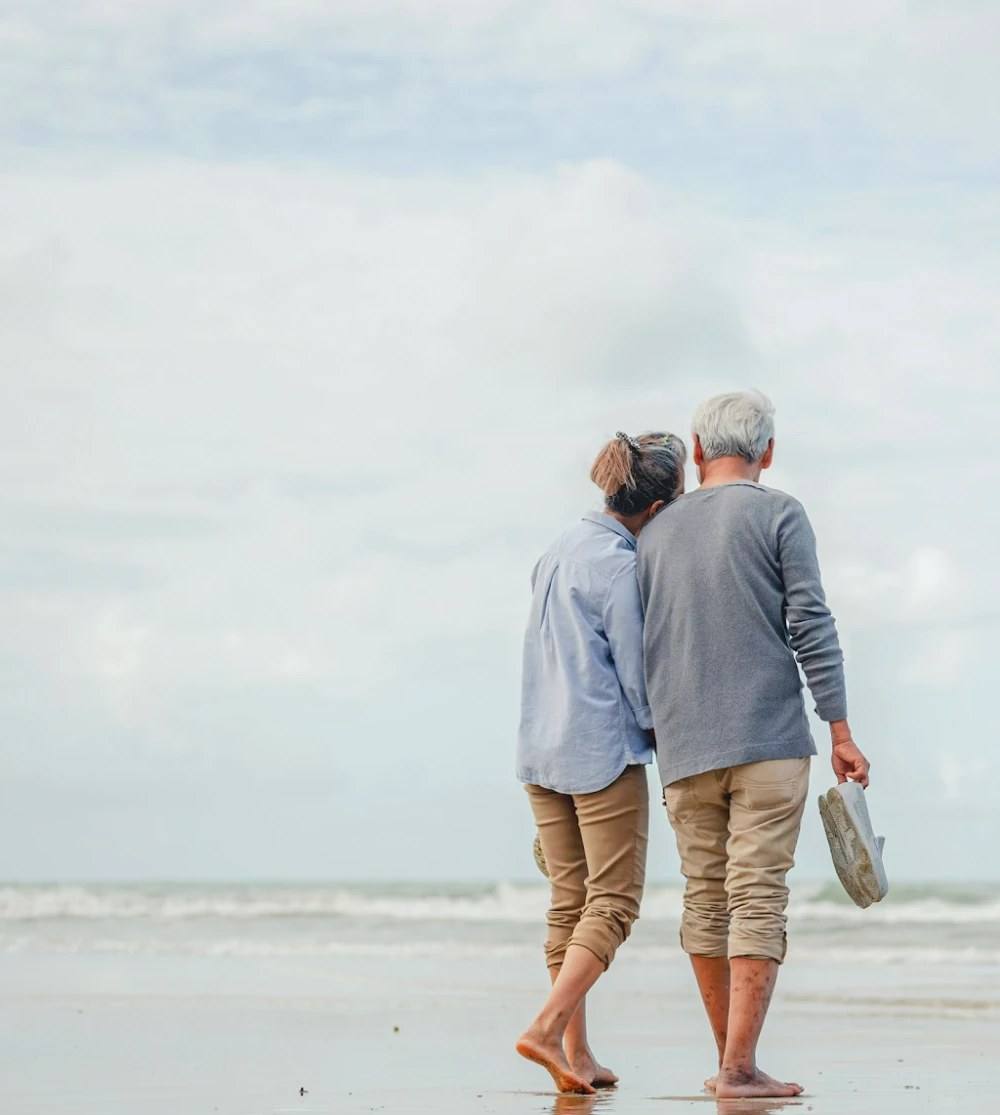
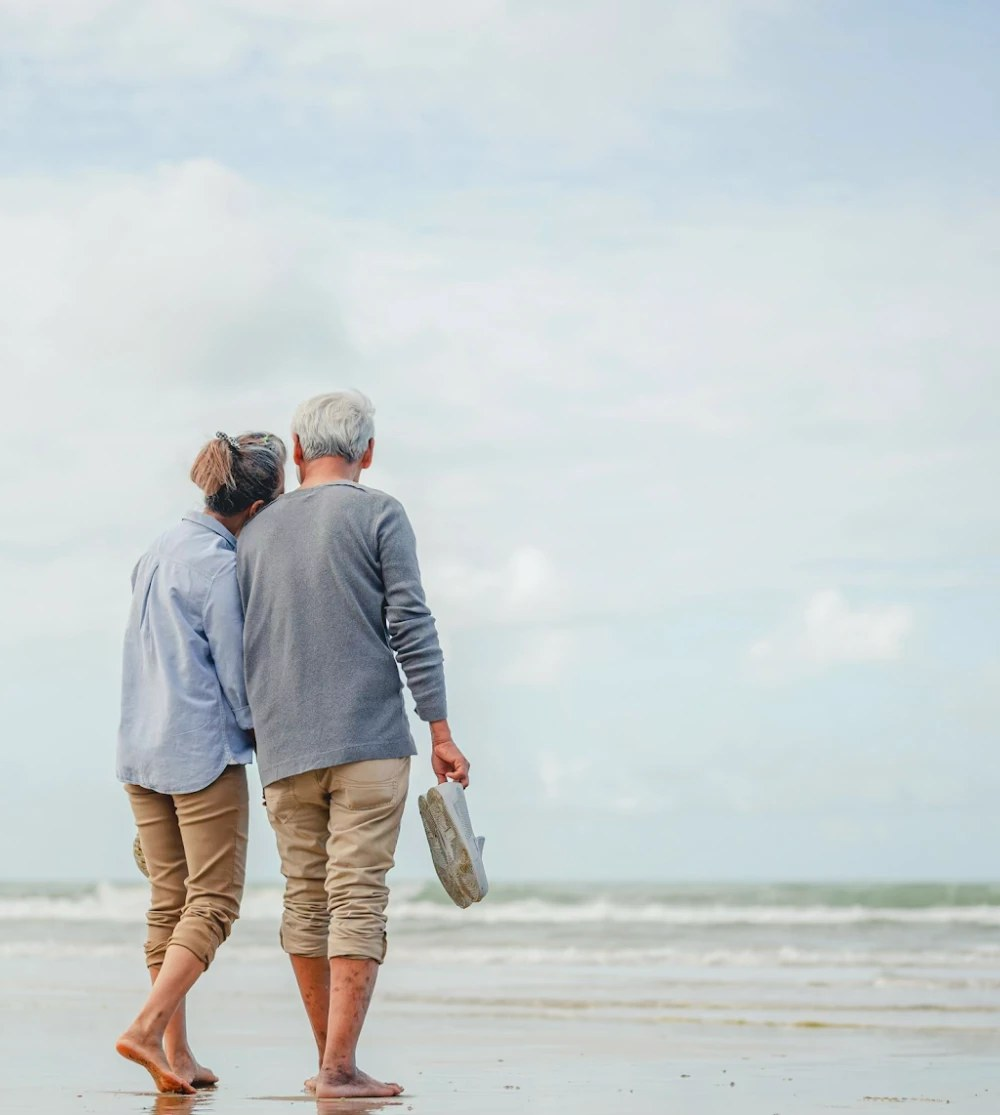
Mirror the Vida photograph to match the other lines
The couple was walking out of the layout rather than into it, which read
against the composition every other line follows — Salud and Casa are both
mirrored so their subjects face inward, toward the headline.

Mirroring alone would have moved them from 70% to 30% and dropped them behind
the duotone wash, since the CSS flip maps position p to 1-p. So the crop moved
with it: the frame is now taken from x 440 rather than 40, putting the couple
at 30% in the file so the flip lands them back at 70% — the same clean half of
the media column every other line puts its subject in.

Verified desktop and mobile: all three mirrored lines report
matrix(-1, 0, 0, 1, 0, 0), Auto stays unflipped as the design has it, and
nothing else moved.

Claude-Session: https://claude.ai/code/session_01NeMfdy7MrZpwiUy7DyVMVE

diff --git a/scripts/site.js b/scripts/site.js
@@ -24,10 +24,12 @@
       bg: 'var(--azul-marino)', fg: '#ffffff', dim: 'rgba(255,255,255,0.8)',
       eyebrow: 'var(--coral)', cta: 'var(--coral)', ctaFg: '#ffffff',
       // Different photograph from the one the design assumed (elderly couple on a
-      // beach, per the client), reframed so the subjects clear the wash panel —
-      // so the design's 'center 26%' no longer applies.
+      // beach, per the client), so 'center 26%' no longer applies. Mirrored like
+      // Salud and Casa so the couple faces into the layout rather than out of it;
+      // the file is cropped with them at 30% so the flip lands them at 70% — clear
+      // of the wash panel, matching where the subject sits on every other line.
       photo: 'assets/foto-vida.jpeg', pos: 'center', wash: 'rgba(22,41,71,0.82)',
-      flip: 'none',
+      flip: 'scaleX(-1)',
       claim: 'Los tuyos, siempre respaldados.',
       claimSub: 'Antaŭvidi Vida. Lo que construiste sigue de pie.',
       head: 'Tu legado, en manos firmes.',
